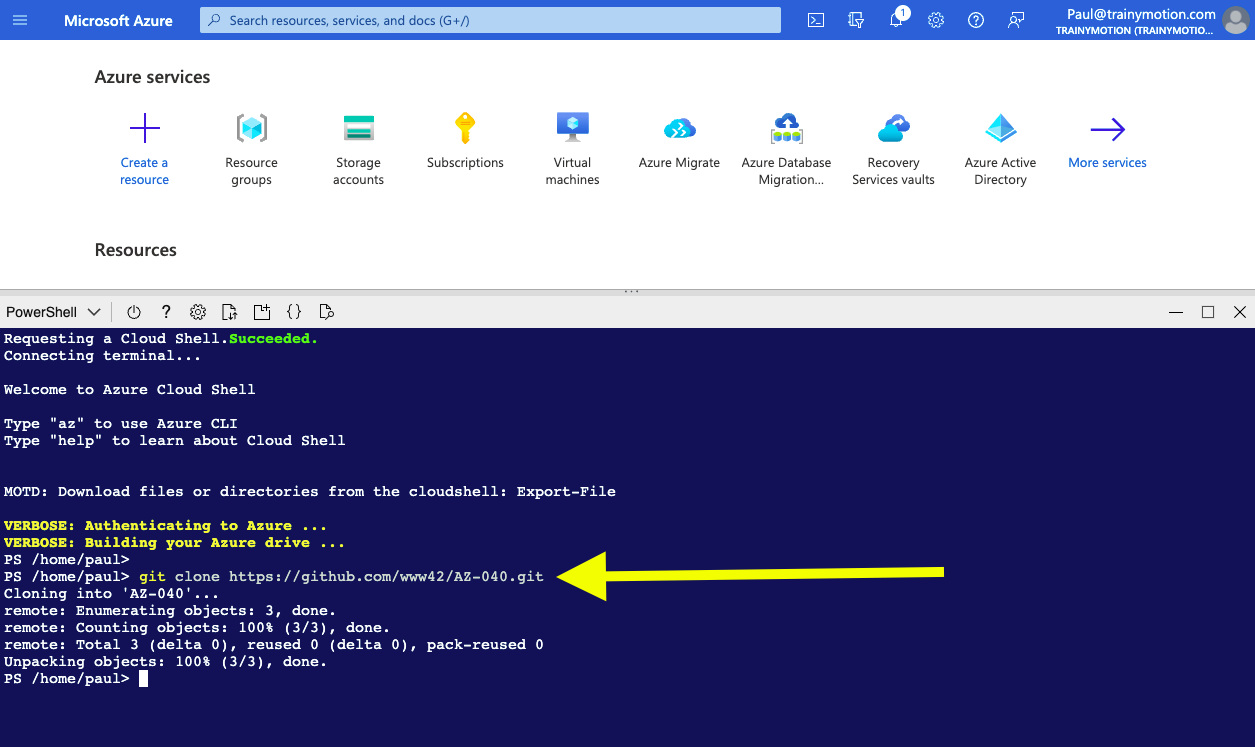
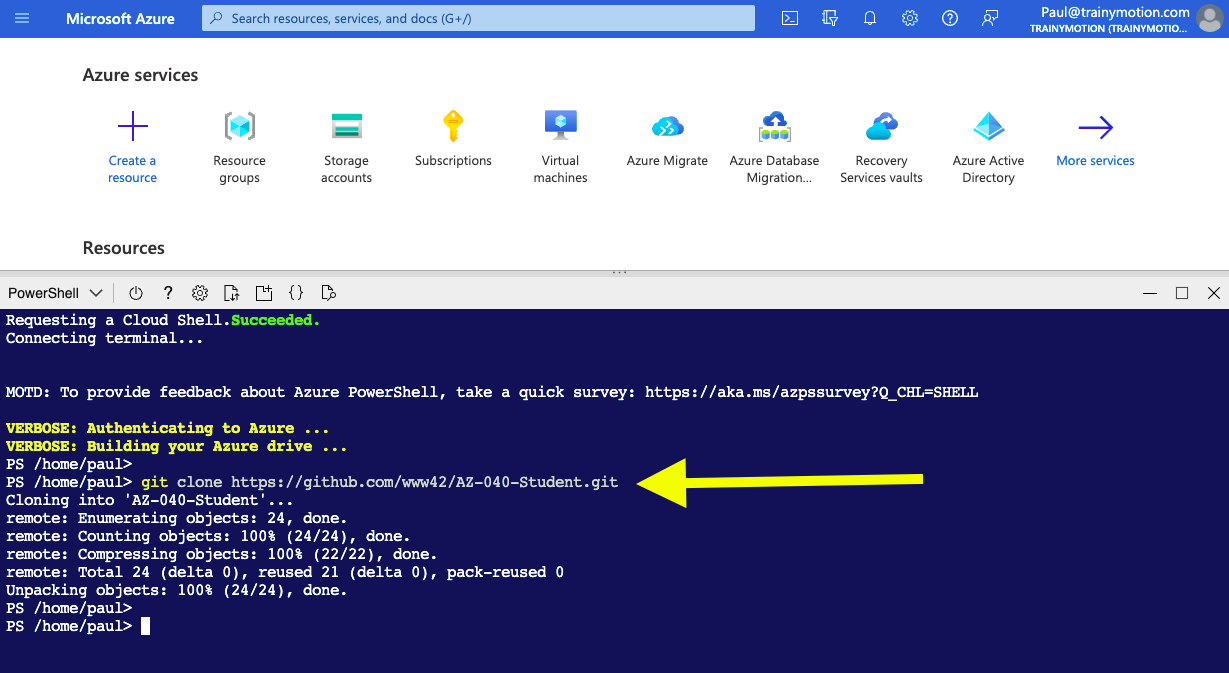
Add more steps in TODO.md

diff --git a/TODO.md b/TODO.md
@@ -7,19 +7,24 @@ Go to [outlook.com](https://outlook.com) and create free account. Note email add
 <img src="img/Create-Microsoft-Account.png" alt="Create Microsoft Account" width="400"/>
 
 
+
 ## Redeem your Azure Pass code
 
 Go to [microsoftazurepass.com](https://www.microsoftazurepass.com). Sign in with your new Microsoft account!
 
 <img src="img/Redeem-Azure-Pass.png" alt="Redeem Azure Pass" width="400"/>
 
+
+
 ## Activate Cloud Shell
 
 Select PowerShell.
 
-<img src="img/Activate-Cloud-Shell.png" alt="Activate Cloud Shell" width="400"/>
+<img src="img/Activate-Cloud-Shell-1.png" alt="Activate Cloud Shell 1" width="400"/>
 
 <img src="img/Activate-Cloud-Shell-2.png" alt="Activate Cloud Shell 2" width="400"/>
+
+
 
 ## Clone github repo
 
@@ -29,8 +34,45 @@ git clone https://github.com/www42/AZ-040-Student.git
 
 <img src="img/Clone-Repo.png" alt="Clone Repo" width="400"/>
 
+
+
 ## Deploy ARM template
+
+``` 
+cd AZ-040-Student
+./Deploy-Template.ps1
+```
+
+<img src="img/Deploy-ARM-Template.png" alt="Deploy ARM Template" width="400"/>
+
+
 
 ## Connect to virtual machine
 
-# Mount file share
+Select Bastion. Login with username localadmin. Start PowerShell ISE.
+
+<img src="img/Connect-to-VM-1.png" alt="Connect to VM 1" width="400"/>
+
+<img src="img/Connect-to-VM-2.png" alt="Connect to VM 2" width="400"/>
+
+<img src="img/Connect-to-VM-3.png" alt="Connect to VM 3" width="400"/>
+
+
+
+## Optional - Mount file share
+
+Go to storage account named storage040...
+
+<img src="img/Mount-File-Share-1.png" alt="Mount File Share 1" width="400"/>
+
+Locate the file share named powershell
+
+<img src="img/Mount-File-Share-2.png" alt="Mount File Share 2" width="400"/>
+
+Click Connect. Copy the PowerShell script (grey box) to clipboard.
+
+<img src="img/Mount-File-Share-3.png" alt="Mount File Share 3" width="400"/>
+
+Paste the script into PowerShell ISE and Run Script (F5)
+
+<img src="img/Mount-File-Share-4.png" alt="Mount File Share 4" width="400"/>
